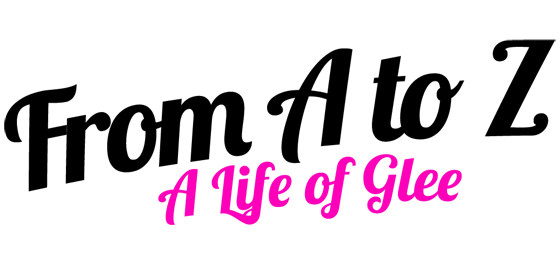
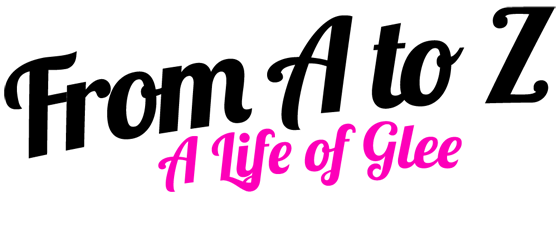
Responsive ver#1

diff --git a/style.css b/style.css
@@ -35,14 +35,28 @@ img {max-width:100%;}
 }
 
 .headline {
+	width: 100%;
+	padding-top: 30px;
 	text-align: center;
-	padding: 0 30px 0 150px;
 	border-bottom: 3px solid #fd00b9;
 }
 
-.headline img {margin-bottom: -13px;}
+.headlineImgCont {
+	display: inline-block; 
+	margin-bottom: -27px;
+	padding-left: 150px;
+}
 
-.onBike {margin-left: -15px;}
+.onBike {
+	width: 25%;
+	float: left;
+	text-align: right;
+}
+.headText {
+	width: 70%; 
+	float: left;
+	text-align: right;
+}
 
 .description {
 	text-align: center;
@@ -64,8 +78,9 @@ img {max-width:100%;}
 .funnel {
 	overflow: hidden;
 	background-image: url("img/BlueFunnel.png");
-	background-size: cover;
-	padding-bottom: 200px;
+	background-size: 100% 100%;
+	padding-bottom: 500px;
+	margin-bottom: -300px;
 }
 
 section.books {
@@ -80,19 +95,17 @@ section.books {
 .leftUpBook, .rightUpBook {
 	width: 50%;
 	float: left;
-	text-align: center;
 }
 
-.leftUpBook img, .rightUpBook img {width: 80%;}
+.leftUpBook {text-align: right;}
+.rightUpBook {text-align: left;}
 
-.leftUpBook img {padding-left: 75px}
-.rightUpBook img {padding-right: 75px}
+.leftUpBook img, .rightUpBook img {padding: 3%;}
 
 .downBook {	
 	text-align: center;
 	width: 100%;
 }
-.downBook img {width: 82%;}
 
 .buttonsRow {
 	display: table;
@@ -147,25 +160,23 @@ section.formats {width: 70%;}
 	margin: 0 auto;
 	font-size: 1.3em;
 }
-
-.formatsImgs {position: relative;}
-
-.tabletImg {
-	position: relative;
-	left: 140px;
-	top: 30px;
-	width: 50%;
+.imgRow1 {
+	width: 45%;
+	margin: auto;
+}
+.imgRow2 {
+	width: 40%;
+	float: right;
+	margin-top: -9%;
 }
 
-.phoneImg {
-	position: absolute;
-	right: 70px;
-	top: 213px;
+.imgRow3 {
+	width: 60%;
 }
 
 .compImg {
 	position: relative;
-	width: 63%;
+	left: 10%;
 }
 
 .whale {
@@ -179,7 +190,7 @@ section.formats {width: 70%;}
 .baloons {
 	width: 100%;
 	background-image: url(img/balloons.png);
-	background-position: 9% 83%;
+	background-position: 20% 83%;
 	background-repeat: no-repeat;
 	
 }
@@ -192,7 +203,7 @@ section.reviews {width: 55%;}
 	padding: 20px 0;
 }
 
-.rateReview {max-width: 60%}
+.rateReview, .circleImg {max-width: 60%}
 
 .reviewText {
 	text-align: center;
@@ -218,8 +229,11 @@ section.reviews {width: 55%;}
 .purpleText p {font-size: 2em;}
 
 .discountBlock{
+	background-color: #fff;
 	text-align: center;
-	padding: 80px;
+	padding: 80px 0;
+	margin: auto;
+	width: 75%;
 }
 
 .discountBlock h1 {
@@ -253,11 +267,14 @@ strike:after {
   transform: rotateZ(-15deg);
 }
 
+footer {background-color: #2f2f2f;}
+
 .footerContainer {
-	text-align: center;	
-	background-color: #2f2f2f;
+	text-align: center;
 	color: #666;	
-	padding: 30px 110px;
+	padding: 30px 0;
+	margin: auto;
+	width: 75%;
 }
 
 .footerText, .copyright {font-size: 1.3em;}
@@ -285,8 +302,103 @@ strike:after {
 
 .footerMenu span {color: #666;}
 
-@media screen and (min-width: 1200px) {
+@media screen and (min-width: 680px) and (max-width: 1190px) {
 	body {
 		background-color: #666;
 	}
+
+	img {max-width:90%;}
+	.head-logo {padding: 0;}
+	.head-logo img {width: 50%;}
+
+	.headline, .topContainer {border-bottom: 2px solid #fd00b9;}
+
+	.headlineImgCont {
+		padding-left: 0;
+		margin-bottom: -20px;
+	}
+
+	.description {margin: 20px auto;}
+	.description h1, .purpleText h1, .discountBlock h1 {font-size: 1.5em;}
+	.description h3, .purpleText p, .discountBlock p, .footerMenu li  {font-size: 1em;}
+	.footerText, .copyright {font-size: 1em;}
+
+	.funnel {padding-bottom: 450px;}
+
+	.whale, .baloons {
+		background-image:none;
+	}
+
+	section.formats, section.reviews {
+		padding: 20px 0 10px;
+		border-top: 2px solid #fd00b9;
+	}
+
+	.sectionText h2 {font-size: 1.3em;}
+	.sectionText p {font-size: 1em;}
+
+	.reviewItem {padding: 0}
+	.reviewText {font-size: 0.8em;}
+	.rateReview, .circleImg {max-width: 40%}
+
+	.discountBlock{padding: 20px}
+}
+
+@media screen and (min-width: 320px) and (max-width: 680px) {
+	body {
+		background-color: #f9f9d9;
+	}
+	img {max-width:90%;}
+
+	.head-logo {padding: 0;}
+	.head-logo img {width: 30%;}
+
+	.menu-item {
+		padding: 0;
+		width: 20%;
+	}
+
+	.menu-item a {
+		font-size: 12px;
+		font-weight: 300;
+	}
+	.headline, .topContainer {border-bottom: 2px solid #fd00b9;}
+
+	.headlineImgCont {
+		padding-left: 0;
+		margin-bottom: -16px;
+	}
+
+	.description {margin: 10px auto;}
+	.description h1, .purpleText h1, .discountBlock h1 {font-size: 0.9em; margin: 0;}
+	.description h3, .purpleText p, .discountBlock p, .footerMenu li  {font-size: 0.7em;}
+	.footerText, .copyright {font-size: 0.9em;}
+	.funnel {padding-bottom: 350px;}
+
+	.whale, .baloons {
+		background-image:none;
+	}
+
+	section.books {padding: 20px 0;}
+
+	section.formats, section.reviews {
+		padding: 10px 0;
+		border-top: 2px solid #fd00b9;
+	}
+
+	.buttonsRow {padding: 0 0 10px;}
+	.downloadBtn {padding-left: 5px;}
+	.buttonsRow img {width: 50%;}
+	sup {
+		top:0;
+		font-size: 0.5em;
+	}
+
+	.sectionText h2 {font-size: 1em;}
+	.sectionText p {font-size: 0.7em;}
+
+	.reviewItem {padding: 0}
+	.reviewText {font-size: 0.6em;}
+
+	.discountBlock{padding: 10px}
 }

diff --git a/index.html b/index.html
@@ -23,8 +23,10 @@
    <div class="topContainer">
       <div class="topSection">      
          <div class="headline">
-            <img class="headText" src="img/Headline.png">
-            <!-- <img class="onBike" src="img/OnBike.png"> -->
+         <div class="headlineImgCont">
+            <div class="headText"><img src="img/Headline.png"></div>
+            <div class="onBike"><img src="img/OnBike.png"></div>
+         </div>
          </div>
          <div class="description">
             <h1>A Children's Book With More than Just a Story</h1>
@@ -63,9 +65,9 @@
                <p>Available in multiple formats to ensure you can truly take this amazing book anywhere you go.</p>
             </div>
             <div class="formatsImgs">
-               <img class="tabletImg" src="img/Tablet.png">
-               <img class="phoneImg" src="img/Phones.png">
-               <img class="compImg" src="img/Computers.png">
+               <div class="imgRow1"><img src="img/Tablet.png"></div>
+               <div class="imgRow2"><img src="img/Phones.png"></div>
+               <div class="imgRow3"><img class="compImg" src="img/Computers.png"></div>
             </div>
          </section>
          <div class="whale">
@@ -76,21 +78,21 @@
                <p>Not convinced your children will love this book?<br> Read the reviews from happy customers across the globe.</p>
             </div>
             <div class="reviewItem">
-               <img src="img/Kid.png"> <br>
+               <img class="circleImg" src="img/Kid.png"> <br>
                <img class="rateReview" src="img/Jennifer.png">            
                <div class="reviewText">
                   <p>My little guy absolutely loved the book. He took it everywhere he went. The picture is of him reading it in his bedroom. Found him trying to stay up late to read more.</p>
                </div>
             </div>
             <div class="reviewItem">
-               <img src="img/Deborah.png"> <br>
+               <img class="circleImg" src="img/Deborah.png"> <br>
                <img class="rateReview" src="img/Lizzie.png">            
                <div class="reviewText">
                   <p>My third-graders are in love with this book. Every time I start class, all they can say is. "A to Z, Please Mrs. Lanning."</p>
                </div>
             </div>
             <div class="reviewItem">
-               <img src="img/Circles.png"> <br>
+               <img class="circleImg" src="img/Circles.png"> <br>
                <img class="rateReview" src="img/Rebecca.png">            
                <div class="reviewText lastReview">
                   <p>Me and my daughter have bonded over this book and we bring it on all our trips. Thank you for such beautiful illustrations.</p>
